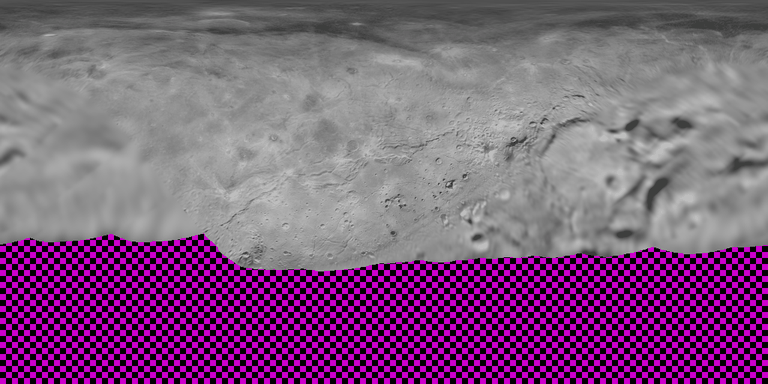
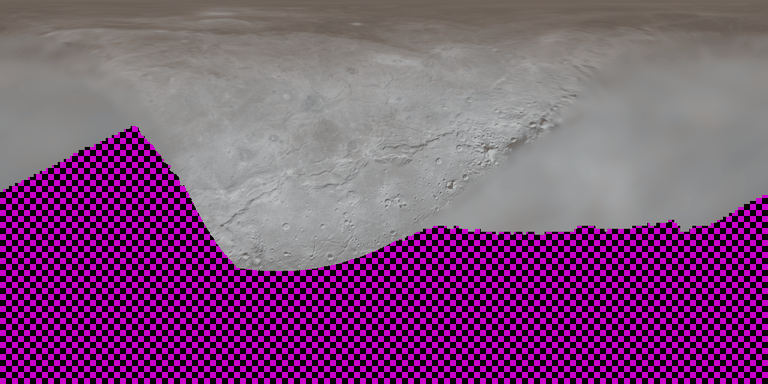
Surface report: Earth, New Horizons Pluto/Charon, updated rejections
Earth section with the implied absolute calibration against the model
disk photometry, layer epochs and diagnostics, verification numbers
(land/water/Sahara/Amazon reflectance, night-light peaks, water area),
previews of all four Earth layers; Pluto and Charon from MVIC.

Claude-Session: https://claude.ai/code/session_01TxYJ6j492pCPf33sRVzBDH

diff --git a/pipeline/src/pipeline/surf_report.py b/pipeline/src/pipeline/surf_report.py
@@ -137,6 +137,14 @@ def verification(hs: dict) -> list[str]:
     return lines
 
 
+def _short(v):
+    if isinstance(v, float):
+        return f"{v:.4g}"
+    if isinstance(v, list):
+        return "[" + ", ".join(_short(x) for x in v) + "]"
+    return v
+
+
 def earth_numbers(hs: dict) -> str:
     """Computed Earth facts: absolute calibration, composition, epochs."""
     h = hs[(399, "albedo")]
@@ -169,7 +177,7 @@ def earth_numbers(hs: dict) -> str:
             ep = x.get("epoch", {})
             lines.append(f"**{layer}:** {x['brightness']['method']} Epoch: {ep.get('observed', '')}. Coverage "
                          f"{x['coverage']['areaFraction']:.3f} of the area; diagnostics "
-                         + ", ".join(f"{k} {v}" for k, v in x.get("diagnostics", {}).items()
+                         + ", ".join(f"{k} {_short(v)}" for k, v in x.get("diagnostics", {}).items()
                                      if isinstance(v, (int, float)) or k == "daylitLatitudeRange") + ".")
     return "\n\n".join(lines)
 
@@ -312,7 +320,10 @@ def generate() -> str:
         "" + ", ".join(f"{k.removeprefix('surf_')} {v:.0f} s" for k, v in secs.items()) + "; "
         "the Moon and Mercury from their cached reductions). A cold build downloads ~20 GB and took 1096 s for the "
         "Moon (13 GB of LROC mosaics), 431 s for Mercury (4.3 GB of band ranges + the DEM), 106 s for Mars and 35 s "
-        "for the giant planets on this machine (~20-40 MB/s).",
+        "for the giant planets on this machine (~20-40 MB/s). Earth, all four layers, cold: 1509 s for 1.8 GB "
+        "(GIBS renders the 8192 × 4096 WMS blocks slowly; 1890 MODIS byte ranges, 766 MB; OC-CCI 324 MB; ETOPO "
+        "156 MB); only the ETOPO subset, the colour maps and the STAC responses are kept. Pluto and Charon: 42 s "
+        "for 1.27 GB of band ranges, deleted after use.",
         "",
         "## Colour: when is it `derived`?",
         "",

diff --git a/docs/reports/surfaces.md b/docs/reports/surfaces.md
@@ -1,12 +1,13 @@
 # Surface maps: review report
 
-Generated 2026-09-30 (commit 94a6808) by `cd pipeline && uv run python -m pipeline.surf_report`, from the layer headers and tiles in `app/public/data/surfaces/`. Numbers are computed; prose is hand-written in `pipeline/src/pipeline/surf_report.py`. Contract: docs/architecture.md §4.4; header type `SurfaceLayerHeader` in app/src/data/schema.ts.
+Generated 2026-09-30 (commit bb4dd77) by `cd pipeline && uv run python -m pipeline.surf_report`, from the layer headers and tiles in `app/public/data/surfaces/`. Numbers are computed; prose is hand-written in `pipeline/src/pipeline/surf_report.py`. Contract: docs/architecture.md §4.4; header type `SurfaceLayerHeader` in app/src/data/schema.ts.
 
 ## What the tiles contain
 
 - **albedo** (float16 X, Y, Z, S): local normal reflectance relative to the body's disk average, per channel. The disk average — cos²(latitude)-weighted, i.e. projected area at zero phase for an equatorial observer, averaged over rotation — is 1 in every channel (checked per level by `tests/test_surf_products.py`). The renderer multiplies by `geometricAlbedoXYZS` from photometry.json and rescales so the disk integral keeps p and Φ(α). Unknown texels are exactly 0 in all channels; wholly unknown tiles are not stored and are listed in `missingTiles`.
 - **height** (float32, metres above the pck00011 reference ellipsoid named in the header; NaN = unknown).
 - **hapke** (Moon only; float16 × 35: w, b, c, B_S0, h_s per LROC band; constants and the model in the header).
+- **Earth only** (float16, NaN = unknown per channel, all dated): **clouds** (cloudFraction, opticalThickness, cloudTopHeightM, iceFraction), **night** (Day/Night-Band radiance in nW cm⁻² sr⁻¹ and the censored share; `constants.toXYZS` converts to luminance for two lamp spectra), **water** (waterFraction, seaIceFraction). Earth's **albedo** is absolute-calibrated: `normalization.absoluteDiskMean` × texel = surface reflectance, because Earth's disk photometry includes clouds and atmosphere.
 - Every header has per-region provenance (`coverage.regions`), a brightness and a colour label, sources, the observation epoch and the normalization constants.
 
 ## Summary
@@ -18,6 +19,10 @@ Generated 2026-09-30 (commit 94a6808) by `cd pipeline && uv run python -m pipeli
 | Moon (301) | albedo | lroc-wac-hapke-7band, lroc-wac-hapke-parameters… | 0–5 (16384×8192, 0.67 km) | 0.993 / 0.999 | derived/estimated | estimated | 2010-01-21/2013-05-01 | 1365.0 |
 | Moon (301) | hapke | lroc-wac-hapke-parameters | 0–0 (512×256, 21.32 km) | 0.942 / 0.983 | measured | – | 2010-02/2011-10 | 8.8 |
 | Moon (301) | height | lola-ldem-64 | 0–4 (8192×4096, 1.33 km) | 1.000 / 1.000 | measured | – | 2009-07-13/2016-11-29 | 170.5 |
+| Earth (399) | albedo | modis-mcd43a4-v061, esa-oc-cci-v6-rrs… | 0–4 (8192×4096, 4.89 km) | 0.896 / 0.940 | measured | estimated | 2026-09-06 → 2026-09-21 | 314.5 |
+| Earth (399) | clouds | viirs-noaa20-cldprop, nasa-gibs | 0–4 (8192×4096, 4.89 km) | 0.986 / 0.998 | measured | – | 2026-09-28 → 2026-09-28 | 341.0 |
+| Earth (399) | night | viirs-noaa20-vj146a2, nasa-gibs… | 0–4 (8192×4096, 4.89 km) | 0.962 / 0.990 | measured | estimated | 2026-09-28 → 2026-09-28 | 162.5 |
+| Earth (399) | water | modis-mod44w-v6-water-mask, noaa-etopo-2022… | 0–4 (8192×4096, 4.89 km) | 1.000 / 1.000 | measured | – | 2026-09-29 → 2026-09-29 | 170.5 |
 | Mars (499) | albedo | hrsc-global-colour-mosaic, mallama-2017… | 0–4 (8192×4096, 2.60 km) | 1.000 / 1.000 | measured | estimated | Mars Express high-altitude campaign (2004 onwards; images selected for low dust) | 341.0 |
 | Mars (499) | height | mola-megdr-32ppd, naif-pck00011 | 0–4 (8192×4096, 2.60 km) | 1.000 / 1.000 | measured | – | 1997-09/2001-06 (MGS mapping) | 170.5 |
 | Io (501) | albedo | usgs-io-galileo-voyager-1km | 0–3 (4096×2048, 2.81 km) | 1.000 / 1.000 | estimated | estimated | Voyager 1979; Galileo 1996-2001 | 85.0 |
@@ -28,10 +33,10 @@ Generated 2026-09-30 (commit 94a6808) by `cd pipeline && uv run python -m pipeli
 | Saturn (699) | albedo | opal-saturn-2025b, karkoschka-1998-pds… | 0–2 (2048×1024, 184.90 km) | 0.910 / 0.950 | measured | estimated | 2025-08-29 → 2025-08-29 | 21.0 |
 | Uranus (799) | albedo | opal-uranus-2025b, karkoschka-1998-pds… | 0–1 (1024×512, 156.83 km) | 0.509 / 0.512 | measured | estimated | 2025-10-24 → 2025-10-24 | 5.0 |
 | Neptune (899) | albedo | opal-neptune-2025c, karkoschka-1998-pds… | 0–1 (1024×512, 151.95 km) | 0.896 / 0.945 | measured | estimated | 2025-08-24 → 2025-08-25 | 5.0 |
-| Charon (901) | albedo | usgs-charon-newhorizons-300m | 0–2 (2048×1024, 1.86 km) | 0.740 / 0.792 | estimated | estimated | 2015-07 (New Horizons flyby, 2015-07-14) | 17.0 |
-| Pluto (999) | albedo | usgs-pluto-newhorizons-300m | 0–3 (4096×2048, 1.82 km) | 0.769 / 0.824 | estimated | estimated | 2015-07 (New Horizons flyby, 2015-07-14) | 65.0 |
+| Charon (901) | albedo | nh-mvic-global-color-maps, buie-2010a… | 0–2 (2048×1024, 1.86 km) | 0.600 / 0.623 | measured | estimated | 2015-07-12 → 2015-07-14 | 16.5 |
+| Pluto (999) | albedo | nh-mvic-global-color-maps, buie-2010a… | 0–3 (4096×2048, 1.82 km) | 0.721 / 0.771 | measured | estimated | 2015-07-12 → 2015-07-14 | 65.0 |
 
-**Product size:** 2977 MiB of tiles (3.12 GB) + 0.7 MiB of headers and tile listings. **Raw downloads kept** in data/raw/surfaces: 2.90 GB (the LROC mosaics — 8.2 GB Hapke + 4.9 GB polar — and the 4.3 GB of Mercury band ranges are reduced and deleted right after download; their sha256 stays in the ledger). **Stage time** per module (last full run: moon 512 s, giants 14 s, mars 46 s, mercury 34 s, pan 45 s; the Moon and Mercury from their cached reductions). A cold build downloads ~20 GB and took 1096 s for the Moon (13 GB of LROC mosaics), 431 s for Mercury (4.3 GB of band ranges + the DEM), 106 s for Mars and 35 s for the giant planets on this machine (~20-40 MB/s).
+**Product size:** 3965 MiB of tiles (4.16 GB) + 1.0 MiB of headers and tile listings. **Raw downloads kept** in data/raw/surfaces: 3.01 GB (the LROC mosaics — 8.2 GB Hapke + 4.9 GB polar — and the 4.3 GB of Mercury band ranges are reduced and deleted right after download; their sha256 stays in the ledger). **Stage time** per module (last full run: moon 512 s, giants 14 s, mars 46 s, mercury 34 s, pan 45 s, earth 728 s, nh 42 s; the Moon and Mercury from their cached reductions). A cold build downloads ~20 GB and took 1096 s for the Moon (13 GB of LROC mosaics), 431 s for Mercury (4.3 GB of band ranges + the DEM), 106 s for Mars and 35 s for the giant planets on this machine (~20-40 MB/s). Earth, all four layers, cold: 1509 s for 1.8 GB (GIBS renders the 8192 × 4096 WMS blocks slowly; 1890 MODIS byte ranges, 766 MB; OC-CCI 324 MB; ETOPO 156 MB); only the ETOPO subset, the colour maps and the STAC responses are kept. Pluto and Charon: 42 s for 1.27 GB of band ranges, deleted after use.
 
 ## Colour: when is it `derived`?
 
@@ -41,13 +46,40 @@ Band ratios are interpolated linearly between band centres and held flat outside
 |---|---|---|---|---|---|
 | Mercury | 430, 480, 560, 630, 750, 830 | 120 | 11.4 / 0.0 | 0.2 / 0.3 / 1.1 / 0.5 | estimated |
 | Moon | 321, 360, 415, 566, 604, 643, 689 | 151 | 0.0 / 0.3 | 0.2 / 0.4 / 1.0 / 0.8 | estimated |
+| Earth (land) | 469, 555, 645 | 90 | 73.9 / 5.0 | 10.9 / 11.8 / 6.2 / 15.1 | estimated |
+| Earth (water) | 412, 443, 490, 510, 560, 665 | 105 | 1.6 / 1.4 | 13.4 / 8.2 / 3.3 / 1.9 | estimated |
 | Mars | 440, 530, 675, 750 | 145 | 21.5 / 0.0 | 5.5 / 4.7 / 2.8 / 4.8 | estimated |
 | Jupiter | 395, 467, 502, 631, 658 | 129 | 0.1 / 2.3 | 1.3 / 1.3 / 1.7 / 0.5 | estimated |
 | Saturn | 395, 467, 502, 631, 763 | 132 | 0.1 / 0.0 | 1.8 / 1.0 / 7.2 / 1.3 | estimated |
 | Uranus | 467, 547, 657, 763 | 110 | 70.7 / 0.0 | 0.3 / 0.8 / 0.3 / 0.9 | estimated |
 | Neptune | 467, 547, 657 | 110 | 72.0 / 1.1 | 3.0 / 2.9 / 0.3 / 1.4 | estimated |
+| Charon | 475, 625, 870 | 245 | 80.5 / 0.0 | 0.5 / 0.8 / 0.1 / 0.5 | estimated |
+| Pluto | 475, 625, 870 | 245 | 79.0 / 0.0 | 1.6 / 2.2 / 0.2 / 1.6 | estimated |
 
 ## Per body
+
+### Earth
+
+**Sources.** Land: MODIS MCD43A4 v061 nadir BRDF-adjusted reflectance, the most recent daily 16-day composite, bands 469/555/645 nm. It comes from the Microsoft Planetary Computer's cloud-optimized copies: the 926 m overview is read by byte range and box-averaged exactly from the sinusoidal grid. Water: ESA OC-CCI v6.0 monthly remote-sensing reflectance (412–665 nm, 4 km), ρw = π·Rrs, for the same season one year earlier (September 2025). Land/water split: MOD44W (250 m) north of 60°S. MOD44W does not map Antarctica, and GIBS draws its no-data value in the water colour, so south of 60°S we use ETOPO 2022 surface elevation ≤ 0 m (ice shelves count as land). Clouds and night lights: NASA GIBS science layers decoded through their published colour maps. Clouds are VIIRS NOAA-20 CLDPROP cloud-top height and optical thickness with phase, one day at the ~13:30 overpass. Night lights are Black Marble VJ146A2 at-surface radiance. Sea ice: GHRSST MUR. Notes: `docs/sources/modis-mcd43a4-v061.md`, `esa-oc-cci-v6-rrs.md`, `nasa-gibs.md`, `night-lights-luminance.md`.
+
+**What we avoided.** GIBS "Corrected Reflectance" true colour is Rayleigh-corrected and contrast-stretched, and GeoColor is partly synthetic, so neither is used. Every value here is a documented physical quantity: reflectance factor, optical thickness, height, or radiance.
+
+**What the renderer does with it.** Surface = albedo × absoluteDiskMean (diffuse; NBAR is the nadir-view reflectance with the Sun at local noon, and land BRDF effects must come from the photometric model). Water adds Fresnel reflection and sun glint on waterFraction × (1 − seaIceFraction). Clouds are shaded from optical thickness, phase and top height at that day's overpass; the cloud layer is unknown in polar night. Rayleigh scattering and aerosols belong to the atmosphere model, not to these maps. Night side: radiance × `toXYZS` for an assumed lamp spectrum (colour `estimated`).
+
+**Known issues.** Sea ice has no reflectance (neither product retrieves it) and is unknown in the albedo. The land colour is estimated from three MODIS bands, and the flat hold beyond 645 nm misses vegetation's red edge. Clouds are one day, each place seen once; cloud-top heights ≥ 12 km are recorded as 12 km (open top bin). Night-light radiances ≥ 38.2 nW cm⁻² sr⁻¹ are lower bounds (censoredFraction). The lamp-spectrum factors are upper limits, because the CIE tables stop at 780 nm while the Day/Night Band reaches ~900 nm.
+
+**Absolute calibration implied by the albedo map.** Disk-mean surface reflectance (cos²φ, known texels) X 0.0339, Y 0.0327, Z 0.0333, S 0.0319. A Lambertian sphere with this surface would have a geometric albedo of 0.0218 (Y); Earth's disk photometry (photometry.json, a radiative-transfer model with clouds and atmosphere) has p_V = 0.216, so the bare surface is ~10 % of the disk's brightness and clouds plus Rayleigh scattering make up the rest. Per channel (X, Y, Z, S), the model disk's geometric albedo is 0.213, 0.213, 0.265, 0.239 against the bare-surface Lambert values 0.0226, 0.0218, 0.0222, 0.0212. Disk weight: ocean 74.0 %, land 25.5 %, MODIS-measured water 0.5 %; 94.0 % of the disk weight is known (315 MODIS tiles; negative texels clipped: 148).
+
+**clouds:** L2 retrievals (cloud-top height from the IR/CO2-slicing algorithm, optical thickness at 0.65/0.86 µm with its phase) decoded to one colour-map bin, aggregated per texel from 16 ~1.1 km samples. Epoch: 2026-09-28, each place at the NOAA-20 daytime overpass (~13:30 local solar time). Coverage 0.986 of the area; diagnostics meanCloudFraction 0.7083, unmatchedColours 0, cthCensoredSamples 23591630, daylitLatitudeRange [-82.46, 78.77].
+
+**night:** Black Marble at-surface nighttime-light radiance in the VIIRS Day/Night Band (500-900 nm), moonlight, atmosphere and viewing-angle effects removed by the product, cloud gaps filled from earlier clear nights; mean of 16 samples per texel. Epoch: night of 2026-09-28 (NOAA-20 overpass ~01:30 local), gaps filled from earlier nights. Coverage 0.962 of the area; diagnostics unmatchedColours 0, knownFraction 0.8325, texelsWithCensoring 68047.
+
+**water:** waterFraction: share of the texel's 16 samples that are water (ocean and inland water): MOD44W 250 m north of 60°S, ETOPO 2022 surface elevation ≤ 0 m south of it (MOD44W does not map Antarctica; ice shelves count as land). seaIceFraction: mean MUR sea-ice concentration (0-1) of the texel's samples that have one (NaN where none, e.g. land). Epoch: land/water mask: MOD44W v6 year 2015; sea ice: MUR analysis of 2026-09-29. Coverage 1.000 of the area; diagnostics unmatchedColours 0, waterAreaFraction 0.7137, texelsWithSeaIceOver15pc 3806982.
+
+![Earth albedo](img/surfaces-399-albedo.png)
+![Earth water](img/surfaces-399-water.png)
+![Earth clouds](img/surfaces-399-clouds.png)
+![Earth night](img/surfaces-399-night.png)
 
 ### Moon
 
@@ -120,9 +152,21 @@ Band ratios are interpolated linearly between band centres and held flat outside
 ![Mercury albedo](img/surfaces-199-albedo.png)
 ![Mercury height](img/surfaces-199-height.png)
 
+### Pluto
+
+**Source.** New Horizons MVIC global colour map (PDS SBN `nh_derived:plutosystem_composition`). Calibrated MVIC scans were converted to normal albedo with a lunar-Lambert function (L(15°) = 0.65), registered to the LORRI base map, and merged with it to full resolution. Blue 475, Red 625 and NIR 870 nm are used; CH4 895 nm is not. This replaces the USGS 8-bit panchromatic mosaic, whose brightness was an inverted display stretch and whose colour was the disk colour. The brightness is now `measured` and the colour varies per texel (`estimated`: two visible bands 150 nm apart). The MVIC map covers less than the panchromatic mosaic did (area 0.72 vs 0.77); the rest is unknown.
+
+![Pluto albedo](img/surfaces-999-albedo.png)
+
+### Charon
+
+**Source.** New Horizons MVIC global colour map, as for Pluto (1 km/px cube). Brightness `measured`, colour `estimated`. Coverage 0.60 of the area, against 0.74 for the USGS panchromatic mosaic it replaces: the sub-Pluto hemisphere is well covered, and the far side and the dark south are unknown.
+
+![Charon albedo](img/surfaces-901-albedo.png)
+
 ### Panchromatic mosaics
 
-**Galilean moons, Pluto, Charon: 8-bit panchromatic mosaics (USGS Astrogeology).** Each is calibrated and photometrically normalized by its producer (Lunar-Lambert for the Galilean satellites), matched across image boundaries and delivered as 8-bit numbers. Except for Pluto and Charon, whose FGDC metadata document the linear 8-bit stretch (inverted here), the DN scaling is not documented; we assume DN ∝ normalized reflectance. Brightness pattern and colour are therefore `estimated` (single band: the local colour is the disk colour). Colour composites (`ClrMosaic`, `ClrMerge`, `FalseColor`), the high-pass-filtered Enceladus mosaics (`_HPF`) and the Triton `GlobalFill` mosaic (undocumented fill) are not used. Georeferencing is checked against a named albedo feature from the IAU Gazetteer at its east longitude and at the mirrored longitude (catches W/E mix-ups).
+**Galilean moons: 8-bit panchromatic mosaics (USGS Astrogeology).** Each is calibrated and photometrically normalized by its producer (Lunar-Lambert), matched across image boundaries and delivered as 8-bit numbers. The DN scaling is not documented; we assume DN ∝ normalized reflectance. Brightness pattern and colour are therefore `estimated` (single band: the local colour is the disk colour). Colour composites (`ClrMosaic`, `ClrMerge`, `FalseColor`), the high-pass-filtered Enceladus mosaics (`_HPF`) and the Triton `GlobalFill` mosaic (undocumented fill) are not used. Georeferencing is checked against a named albedo feature from the IAU Gazetteer at its east longitude and at the mirrored longitude (catches W/E mix-ups).
 
 | body | source | observed | DN p1 / median / p99 | georeferencing check | leading/trailing (mag) | notes |
 |---|---|---|---|---|---|---|
@@ -130,15 +174,11 @@ Band ratios are interpolated linearly between band centres and held flat outside
 | Europa | usgs-europa-voyager-galileo-500m | Voyager 1979; Galileo 1996-2003 | 78 / 153 / 210 | Pwyll (bright ray crater): 1.09 vs mirrored 0.99 | 1.249 (+0.24) | Image resolutions vary widely (tens of m to ~20 km/px gap fill). |
 | Ganymede | usgs-ganymede-voyager-galileo-1km | Voyager 1979; Galileo 1996-2000 | 34 / 76 / 147 | Galileo Regio (dark): 0.80 vs mirrored 1.01 | 1.351 (+0.33) | Input resolutions 180 m to 20 km/px (gap fill). |
 | Callisto | usgs-callisto-voyager-galileo-1km | Voyager 1979; Galileo 1996-2001 | 31 / 55 / 143 | Valhalla (bright centre): 1.38 vs mirrored 0.97 | 1.294 (+0.28) |  |
-| Charon | usgs-charon-newhorizons-300m | 2015-07 (New Horizons flyby, 2015-07-14) | 7 / 123 / 234 | none selected | – | Encounter hemisphere at high resolution, far side from approach images; the south was in polar night. |
-| Pluto | usgs-pluto-newhorizons-300m | 2015-07 (New Horizons flyby, 2015-07-14) | 5 / 123 / 225 | Belton Regio (dark): 0.28 vs mirrored 0.66 | – | Encounter hemisphere (centred near 180°E) at up to ~0.3-1 km/px; the far hemisphere only at ~20-40 km/px from approach images; south of ~30°S was in polar night and is unknown. Pluto's surface volatiles (N2, CH4, CO ices) move seasonally; this is the July 2015 state. |
 
 ![Io](img/surfaces-501-albedo.png)
 ![Europa](img/surfaces-502-albedo.png)
 ![Ganymede](img/surfaces-503-albedo.png)
 ![Callisto](img/surfaces-504-albedo.png)
-![Charon](img/surfaces-901-albedo.png)
-![Pluto](img/surfaces-999-albedo.png)
 
 Previews: display renderings of relative reflectance × the body's disk colour, disk mean at display luminance 0.30, adapted to sunlight (Bradford → D65), 256-colour palette; heights: grey = height plus a 10× exaggerated hillshade. Magenta/black checkerboard = unknown. `uv run python -m pipeline.surf_preview`.
 
@@ -146,9 +186,10 @@ Previews: display renderings of relative reflectance × the body's disk colour, 
 
 - **Venus:** the eye sees the cloud deck, featureless to a few percent in the visible; the markings in popular images are ultraviolet. Magellan radar maps show a surface no eye can see. Rendered from photometry.json only.
 - **Titan:** the eye sees an orange haze ball; the surface maps are 938 nm methane-window (ISS) or infrared (VIMS) products with the haze removed. Rendered from photometry.json only.
-- **Saturn's mid-size moons (rejected after checking):** the USGS/CICLOPS Cassini global maps compress large-scale contrast. The Iapetus map implies a leading/trailing brightness ratio of 0.84 (0.18 mag) at zero phase, while Iapetus's leading hemisphere is ~2 mag fainter than its trailing one; the Dione map implies 1.04 and its bright ray crater Creusa does not stand out. Tethys, Rhea and Enceladus come from the same map series and are held back until its brightness scaling is documented or checked (reasons in `surfaces/index.json` → `rejected`).
-- **Earth:** out of scope for this stage (needs daily cloud imagery; research note 1c).
-- **Triton, Uranian moons, Mimas, small moons:** not built yet (see open issues).
+- **Saturn's mid-size moons (rejected after checking):** the USGS/CICLOPS Cassini global maps compress large-scale contrast. The Iapetus map implies a leading/trailing brightness ratio of 0.84 (0.18 mag) at zero phase, while Iapetus's leading hemisphere is ~2 mag fainter than its trailing one. The Dione map implies 1.04, and its bright ray crater Creusa does not stand out. We also tested the DLR Cassini ISS cartographic atlas maps in PDS (COISS_3001–3007: Phoebe, Enceladus, Dione, Tethys, Iapetus, Mimas, Rhea). They are 8-bit simple-cylindrical mosaics with a Hapke photometric correction but no documented DN scaling, and they are the source of the USGS maps. They give the same ratios (Iapetus 0.844, Mimas 0.93, Tethys 1.08, Rhea 1.17), so none is used (reasons in `surfaces/index.json` → `rejected`).
+- **Triton:** the USGS products are the 1989 Voyager display colour composite (orange/violet/UV shown as RGB; "GlobalFill" adds synthetic fill) or an 8-bit clear-channel orthographic mosaic without documented scaling. No calibrated Triton map was found. Rejected.
+- **Uranian moons:** no global map product exists in the USGS mosaic archive or PDS; a map would have to be built from calibrated Voyager 2 images (southern hemispheres only). Not built.
+- **Small moons:** not built.
 
 ## Verification
 
@@ -160,18 +201,21 @@ Previews: display renderings of relative reflectance × the body's disk colour, 
 - **Jupiter, Great Red Spot:** the reddest (max X/Z) large feature between 10°S and 35°S is at 20.7°S planetocentric, 322°W System III (east 38°); expected 19.6°S planetocentric (≈ 22.2°S planetographic; e.g. Simon et al. 2018, AJ 155, 151), test tolerance 1.5°. **Longitude direction:** the 23.7°N prograde jet moved +4.3° east between the two December 2025 rotations (9.42 h), as it must if east longitude increases to the right in the converted maps.
 - **Uranus:** data from -1° to 90° (planetocentric): the north pole faces Earth in 2025, as expected (test).
 - **Neptune:** data from -90° to 52° (planetocentric): the south pole faces Earth in 2025, as expected (test).
+- **Earth albedo (level 4, absolute Y):** median land 0.068, open water 0.0062; Sahara (20–28°N, 0–20°E) 0.245, Amazon forest (0–10°S, 55–70°W) 0.044 (tests: land > 2.5× water, Sahara > 1.5× land median). Water covers 71.4 % of the area (ocean ≈ 70.8 % + inland water); MOD44W land samples that have a MUR sea-ice value (coastline mismatch) 0.076 %.
+- **Earth night lights (level 4):** peak radiance near Paris 38.2, New York 38.2, Cairo 38.2, central Sahara 0.06 nW cm⁻² sr⁻¹ (texel means; samples ≥ 38.2 are lower bounds).
 - **Io, Loki Patera** (13.01°, 51.21°E; IAU Gazetteer of Planetary Nomenclature (planetarynames.wr.usgs.gov)): contrast to its surroundings 0.72 vs 0.98 at the mirrored longitude (expected dark).
 - **Europa, Pwyll (bright ray crater)** (-25.20°, 88.60°E; IAU Gazetteer of Planetary Nomenclature (planetarynames.wr.usgs.gov)): contrast to its surroundings 1.09 vs 0.99 at the mirrored longitude (expected bright).
 - **Ganymede, Galileo Regio (dark)** (45.00°, -127.00°E; IAU Gazetteer of Planetary Nomenclature (planetarynames.wr.usgs.gov)): contrast to its surroundings 0.80 vs 1.01 at the mirrored longitude (expected dark).
 - **Callisto, Valhalla (bright centre)** (14.70°, -56.00°E; IAU Gazetteer of Planetary Nomenclature (planetarynames.wr.usgs.gov)): contrast to its surroundings 1.38 vs 0.97 at the mirrored longitude (expected bright).
-- **Pluto, Belton Regio (dark)** (-9.21°, 91.42°E; IAU Gazetteer of Planetary Nomenclature (planetarynames.wr.usgs.gov)): contrast to its surroundings 0.28 vs 0.66 at the mirrored longitude (expected dark).
+- **Pluto, Belton Regio (dark)** (-9.21°, 91.42°E; IAU Gazetteer of Planetary Nomenclature (planetarynames.wr.usgs.gov)): contrast to its surroundings 0.25 vs 0.66 at the mirrored longitude (expected dark).
 
 ## Open issues
 
 - Galilean moons: DN scaling undocumented (brightness `estimated`). The headers record the leading/trailing brightness ratio each map implies (`diagnostics.leadingOverTrailing`); comparing it with measured orbital light curves would confirm or reject the linear-DN assumption, as it rejected the Iapetus map.
-- Saturn's mid-size moons: find a documented-brightness source (e.g. the DLR Cassini ISS cartographic volumes COISS_3001-3007 in PDS) or check the CICLOPS maps against disk photometry.
-- Pluto/Charon: New Horizons MVIC colour (PDS composition bundle) not used yet; colour is the disk colour. The DEMs (encounter hemisphere only) are not exported.
-- Not built: Triton (Voyager hemisphere only; the USGS 'GlobalFill' fill is undocumented), Uranian moons, Mimas (DLR atlas in a zip), Ceres/Vesta (M3), Earth.
+- Saturn's mid-size moons: both public map series (USGS/CICLOPS, DLR COISS_3xxx) fail the brightness check. A usable map needs mosaics built from calibrated Cassini ISS images (COISS_2xxx) with a published photometric model, or a published albedo map.
+- Pluto/Charon: the MVIC colour maps cover less than the old panchromatic mosaics (Pluto 0.72 vs 0.77, Charon 0.60 vs 0.74 of the area). The rest could be filled from the LORRI panchromatic mosaic tied to MVIC in the overlap (brightness `estimated` there). The DEMs (encounter hemisphere only) are not exported.
+- Not built: Triton, Uranian moons (no calibrated product), Ceres/Vesta (M3), Earth height (ETOPO 2022 would need lake surfaces; optional).
+- Earth: the cloud layer is one daytime overpass (the night side and polar night are unknown); a renderer at another time should label clouds `estimated`. Geostationary cloud products (GOES/Himawari/Meteosat L2) could give hourly clouds for most of the disk; not used yet (the Meteosat L2 archive needs a login). The albedo has no sea-ice reflectance (unknown). The MCD43A4 fill share over the 315 tiles includes their ocean pixels.
 - Giant planets: maps are one rotation at their epoch; advecting clouds with measured zonal wind profiles (research note 1c) is left to the renderer/M2 follow-up and would be `estimated`.
 - Moon: normal albedo excludes the opposition surge by definition (see above); the renderer's opposition effect must come from the disk phase curve or the exported Hapke layer.
 - Several bodies (the Galilean moons, Charon) have no photometry.json entry yet, so the renderer has no absolute colour/brightness for them; their maps are ready for when it does.
